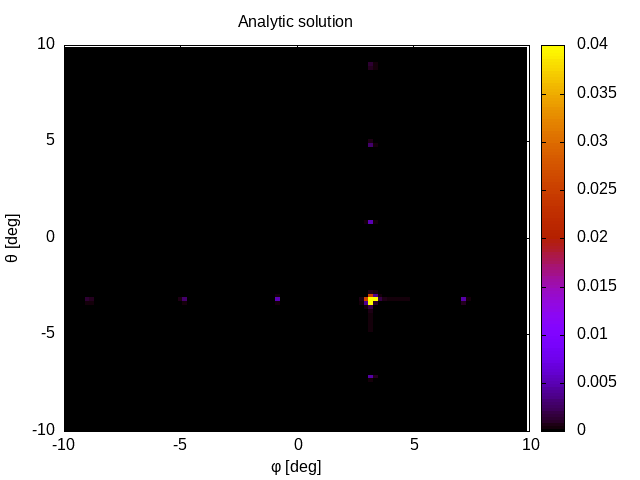
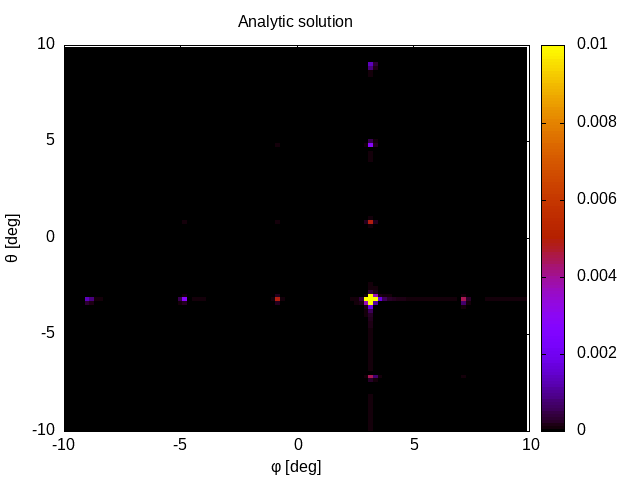
Correcting diffraction point calculation

diff --git a/src/dmd.h b/src/dmd.h
@@ -9,9 +9,9 @@
 struct DmdParams {
     int    nx;          // Number mirrors in x
     int    ny;          // Number mirrors in y
-    double angle;       // Flip angle
-    double mirror_size; // Length of mirror edge
-    double mirror_dist; // Distance between mirrors
+    float angle;       // Flip angle
+    float mirror_size; // Length of mirror edge
+    float mirror_dist; // Distance between mirrors
 };
 
 std::ostream &operator<<(std::ostream &stream, const DmdParams &a)
@@ -33,9 +33,9 @@ class Dmd {
     DmdParams _p;
     int       _nmirrors;
 
-    double _eff_width; // mirror_dist + mirror_size
-    double _size_x;    // Total dmd size in x direction
-    double _size_y;    // Total dmd size in y direction
+    float _eff_width; // mirror_dist + mirror_size
+    float _size_x;    // Total dmd size in x direction
+    float _size_y;    // Total dmd size in y direction
 
     // cpplap::Vect<float>or along edge of mirror in x direction
     cpplap::Vect<float> _dir_x_on;
@@ -111,8 +111,8 @@ public:
             throw std::domain_error("Dmd: cpplap::Vect<float>or index y out of range");
         }
 
-        double xd = vect[0] + _size_x / 2.;
-        double yd = vect[1] + _size_y / 2.;
+        float xd = vect[0] + _size_x / 2.;
+        float yd = vect[1] + _size_y / 2.;
         int    x  = xd / _eff_width;
         int    y  = yd / _eff_width;
         return std::tuple(x, y);
@@ -143,23 +143,23 @@ public:
         return getMirror(x, y);
     }
 
-    std::tuple<double, double> getMirrorCoordinates(const int i) const
+    std::tuple<float, float> getMirrorCoordinates(const int i) const
     {
         const auto [ix, iy] = de_index(i);
         return getMirrorCoordinates(ix, iy);
     }
 
-    std::tuple<char, double, double> getMirrorStatus(const int i) const
+    std::tuple<char, float, float> getMirrorStatus(const int i) const
     {
         const auto [ix, iy] = de_index(i);
         const auto [x, y]   = getMirrorCoordinates(ix, iy);
         return std::tuple(_flipped[i], x, y);
     }
 
-    std::tuple<double, double> getMirrorCoordinates(const int i, const int j) const
+    std::tuple<float, float> getMirrorCoordinates(const int i, const int j) const
     {
-        const double x = i * _eff_width - _size_x / 2 + _eff_width / 2;
-        const double y = j * _eff_width - _size_y / 2 + _eff_width / 2;
+        const float x = i * _eff_width - _size_x / 2 + _eff_width / 2;
+        const float y = j * _eff_width - _size_y / 2 + _eff_width / 2;
         return std::tuple(x, y);
     }
 
@@ -209,7 +209,7 @@ public:
         DiffractionPoint first_diff_point(dmd_intersec, 0, ray.distFromRTo(dmd_intersec));
 
         // Distance of the ray base vector and the diffraction point
-        double last_dist = std::numeric_limits<double>::max();
+        float last_dist = std::numeric_limits<float>::max();
 
         // Test mirrors surrounding dmd_intersec
         for (int i = -1 * (x > 0); i <= (x < _p.nx - 1); i++) {
@@ -221,7 +221,7 @@ public:
                 if (mirror.rayInterSec(ray, diff_point)) {
 
                     // Calculate the distance within ray
-                    double dist = diff_point.getPhaseShift();
+                    float dist = diff_point.getPhaseShift();
 
                     // If distance is smaller than before, select this as the new
                     // diffraction point
@@ -236,9 +236,9 @@ public:
         return first_diff_point;
     }
 
-    double getMirrorSize() const { return _p.mirror_size; }
+    float getMirrorSize() const { return _p.mirror_size; }
 
-    double getMirrorAngle() const { return _p.angle; }
+    float getMirrorAngle() const { return _p.angle; }
 
     int nMirrors() const { return _nmirrors; }
 };

diff --git a/src/raytracing.h b/src/raytracing.h
@@ -136,13 +136,15 @@ public:
 
     cpplap::Vect<float> getRandomNormalVect()
     {
-        float r   = _normal_distribution(_generator);
-        float phi = _uniform_distribution(_generator);
+        float x = _normal_distribution(_generator);
+        float y = _normal_distribution(_generator);
 
-        cpplap::Vect<float> ret = cpplap::Vect<float>::SphericalCoords(phi, M_PI / 2, r);
+        cpplap::Vect<float> ret   = cpplap::Vect<float>(x, y, 0);
+        float               phi   = _input_dir.phi();
+        float               theta = _input_dir.theta();
 
-        ret.rotate(cpplap::Vect<float>(0, 1, 0), _input_theta);
-        ret.rotate(cpplap::Vect<float>(0, 0, 1), _input_phi);
+        ret.rotate(cpplap::Vect<float>(0, 1, 0), theta);
+        ret.rotate(cpplap::Vect<float>(0, 0, 1), phi);
 
         return ret;
     }
@@ -293,6 +295,7 @@ public:
 
         for (int i = 0; i < _Nphi; i++) {
             std::cout << i << " of " << _Nphi << std::endl;
+            float fact = 2 * M_PI / _wave_length;
 
 #pragma omp parallel for
             for (int j = 0; j < _Ntheta; j++) {
@@ -309,10 +312,9 @@ public:
 
                     float amplitude = diff_point.getAmplitude();
 
-                    tot_amplitude +=
-                        std::polar(amplitude, static_cast<float>(2 * M_PI / _wave_length * tot_phase_shift));
+                    tot_amplitude += std::polar(amplitude, fact * tot_phase_shift);
                 }
-                _image[indexPixel(i, j)] = std::abs(tot_amplitude);
+                _image[indexPixel(i, j)] = std::abs(tot_amplitude * tot_amplitude);
             }
         }
     }

diff --git a/src/dmd_test.cpp b/src/dmd_test.cpp
@@ -55,20 +55,20 @@ int main()
     // mirror diagonal
     ray = Ray(cpplap::Vect<float>(1, -3, 0), cpplap::Vect<float>(1, -1, 1), 1);
 
-    cpplap::test_exact(dmd.findDiffPoint(ray), DiffractionPoint(1, -3, 0, 1), "Mirror Diffraction Point 4");
+    cpplap::test_exact(dmd.findDiffPoint(ray), DiffractionPoint(1, -3, 0, 1, 4), "Mirror Diffraction Point 4");
 
     // Ray in random direction missing mirror diagonal. Base vector of ray lies in
     // mirror.
     ray = Ray(cpplap::Vect<float>(3.5, -1.5, sqrt(0.5)), cpplap::Vect<float>(1, 2, 4), 2);
 
-    cpplap::test_rel(dmd.findDiffPoint(ray), DiffractionPoint(3.5, -1.5, sqrt(0.5), 2), "Mirror Diffraction Point 5");
+    cpplap::test_rel(dmd.findDiffPoint(ray), DiffractionPoint(3.5, -1.5, sqrt(0.5), 2, 3.32843),
+                     "Mirror Diffraction Point 5");
 
     // Ray that goes through three mirrors. We want to select the first one
     ray =
         Ray(cpplap::Vect<float>(1, 1, 0), cpplap::Vect<float>(2.5, -0.5, -sqrt(0.5)) - cpplap::Vect<float>(1, 1, 0), 2);
 
-    cpplap::test_rel(dmd.findDiffPoint(ray),
-                     DiffractionPoint(-0.5, 2.5, sqrt(0.5), 2, -sqrt(1.5 * 1.5 + 1.5 * 1.5 + 0.5)),
+    cpplap::test_rel(dmd.findDiffPoint(ray), DiffractionPoint(-0.5, 2.5, sqrt(0.5), 2, -5),
                      "Mirror Diffraction Point 6");
 
     dparams.mirror_dist = 2;

diff --git a/src/raytracing_test.cpp b/src/raytracing_test.cpp
@@ -2,22 +2,20 @@
 #include "test.h"
 #include <fstream>
 
-int main() {
+int main()
+{
 
-  DmdParams dparams;
-  dparams.nx = 10;
-  dparams.ny = 10;
-  dparams.angle = M_PI * 2 / 3.;
-  dparams.mirror_size = 1;
-  dparams.mirror_dist = 0.2;
+    DmdParams dparams;
+    dparams.nx          = 10;
+    dparams.ny          = 10;
+    dparams.angle       = M_PI * 2 / 3.;
+    dparams.mirror_size = 1;
+    dparams.mirror_dist = 0.2;
 
-  cpplap::Vect<float> beam_direction =
-      cpplap::Vect<float>::SphericalCoords(3, M_PI / 1.5, 1);
-  RayTracer traycer(dparams, beam_direction, 1, 0.5);
+    cpplap::Vect<float> beam_direction = cpplap::Vect<float>::SphericalCoords(3, M_PI / 1.5, 1);
+    RayTracer           traycer(dparams, beam_direction, 1, 0.5);
 
-  cpplap::HessePlane<float> beam_plane(cpplap::Vect<float>(0, 0, 0),
-                                       beam_direction);
+    cpplap::HessePlane<float> beam_plane(cpplap::Vect<float>(0, 0, 0), beam_direction);
 
-  cpplap::test_exact(beam_plane.isInPlane(traycer.getRandomNormalVect()), true,
-                     "Normal random ray in plane");
+    cpplap::test_exact(beam_plane.isInPlane(traycer.getRandomNormalVect()), true, "Normal random ray in plane");
 }

diff --git a/src/ray.h b/src/ray.h
@@ -84,7 +84,7 @@ public:
     {
         diff_point              = intersectionPointWith(ray);
         diff_point._amplitude   = ray._amplitude;
-        diff_point._phase_shift = ray.distFromRTo(diff_point);
+        diff_point._phase_shift = diff_point * ray.getV();
         return this->checkBounds(diff_point);
     }
 };
